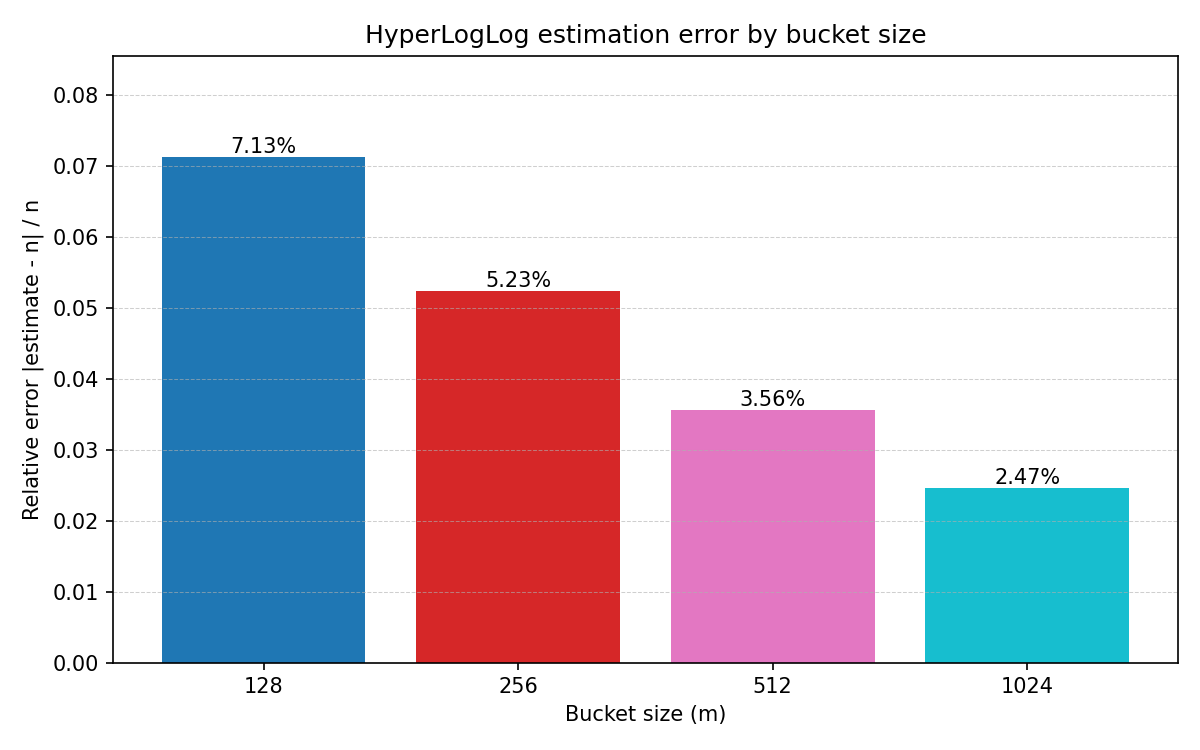
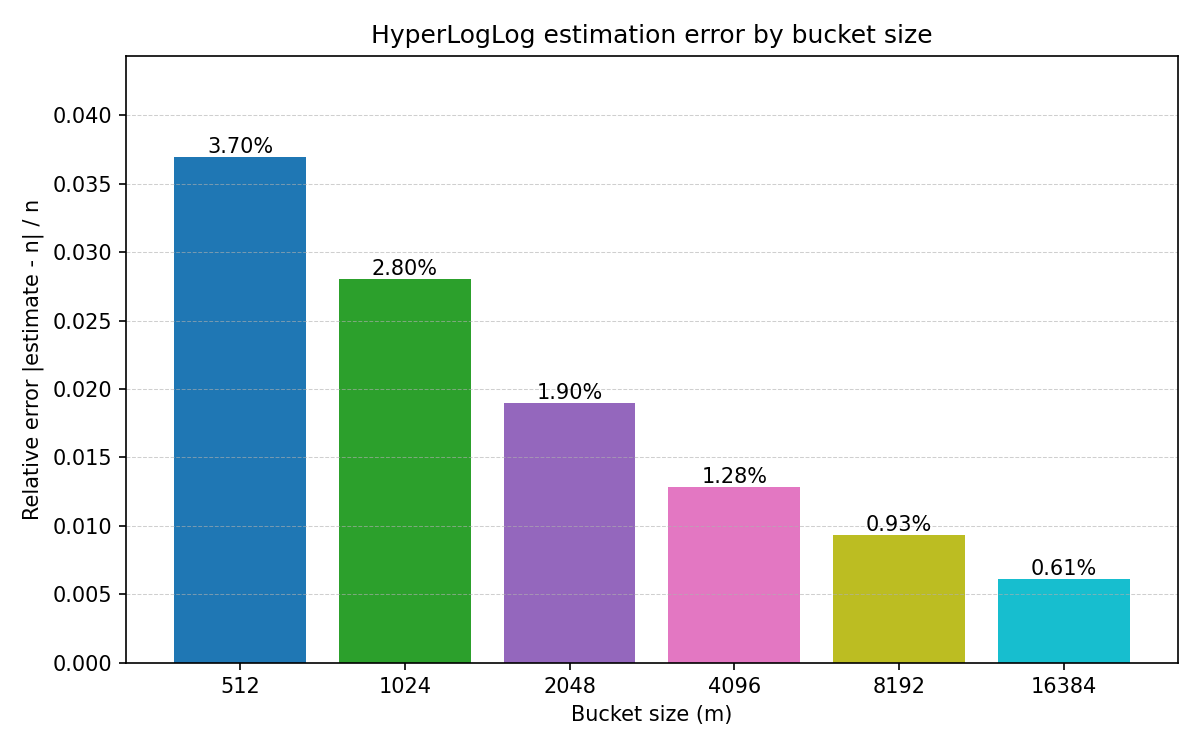
adds more m numbers, and adjusts hyperloglog.java to accept larger mthan 1024

diff --git a/hyperloglog/app/src/main/java/hyperloglog/HyperLogLog.java b/hyperloglog/app/src/main/java/hyperloglog/HyperLogLog.java
@@ -51,10 +51,12 @@ public class HyperLogLog {
             .toArray();
     }
 
-    //seting the registers to max of 1024
-    public static int f(int x){
-        return ((x*0xbc164501) & 0x7fffffff) >> 21;
-    }
+    //seting the registers to allow larger m
+    public static int f(int x) { 
+        int h = x * 0xbc164501; 
+        h ^= (h >>> 16); 
+        return h & 0x7fffffff; // 31-bit non-negative 
+        }
 
     /**
      * Since ρ(x) is the position of the first 1 in the binary representation of 
@@ -91,7 +93,7 @@ public class HyperLogLog {
             M[i] = 0;
         }
 
-        //line 7-11 //altered to reduce index for smaller m
+        //line 7-11 //altered to reduce index for other m
         for (int y : Y) {
             int j = f(y) % m;
             int x = h(y);

diff --git a/hyperloglog/hll_experiment.py b/hyperloglog/hll_experiment.py
@@ -38,7 +38,7 @@ os.environ.setdefault("MPLCONFIGDIR", str(cache_dir))
 
 import matplotlib.pyplot as plt  # noqa: E402
 
-BUCKET_SIZES = [128,256,512,1024]
+BUCKET_SIZES = [512, 1024, 2048, 4096, 8192, 16384]
 TIMEOUT = 60
 
 
